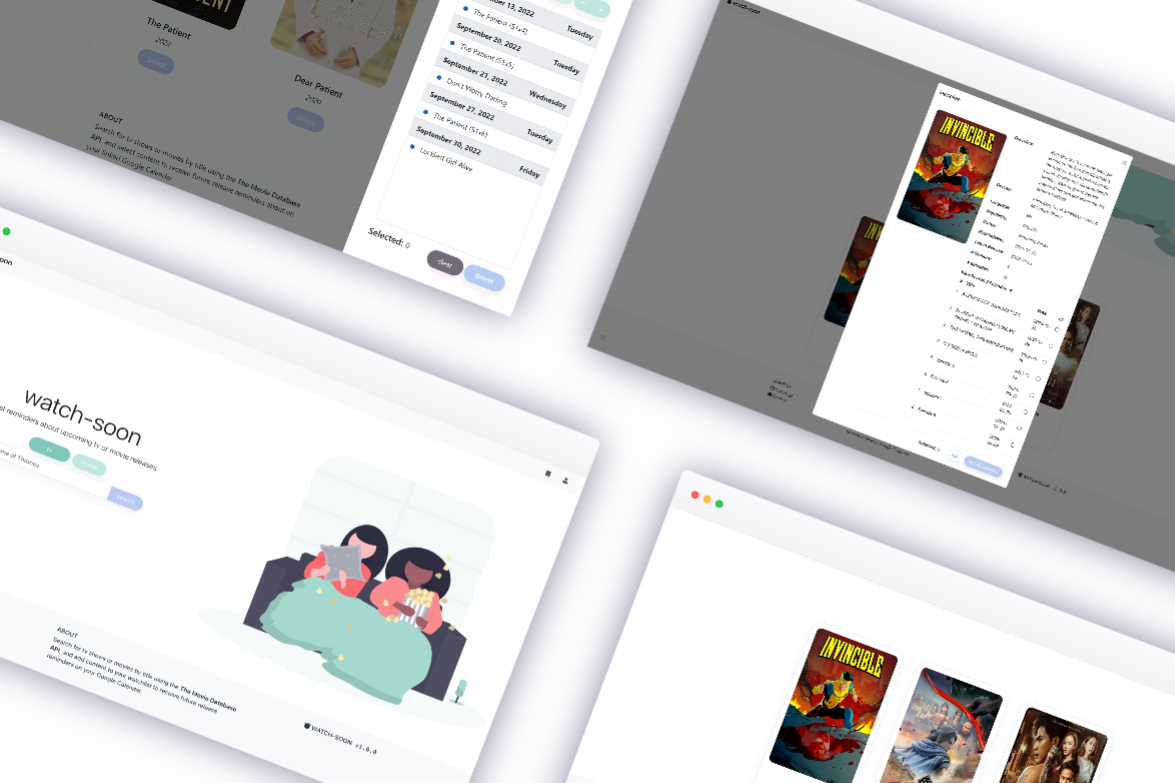
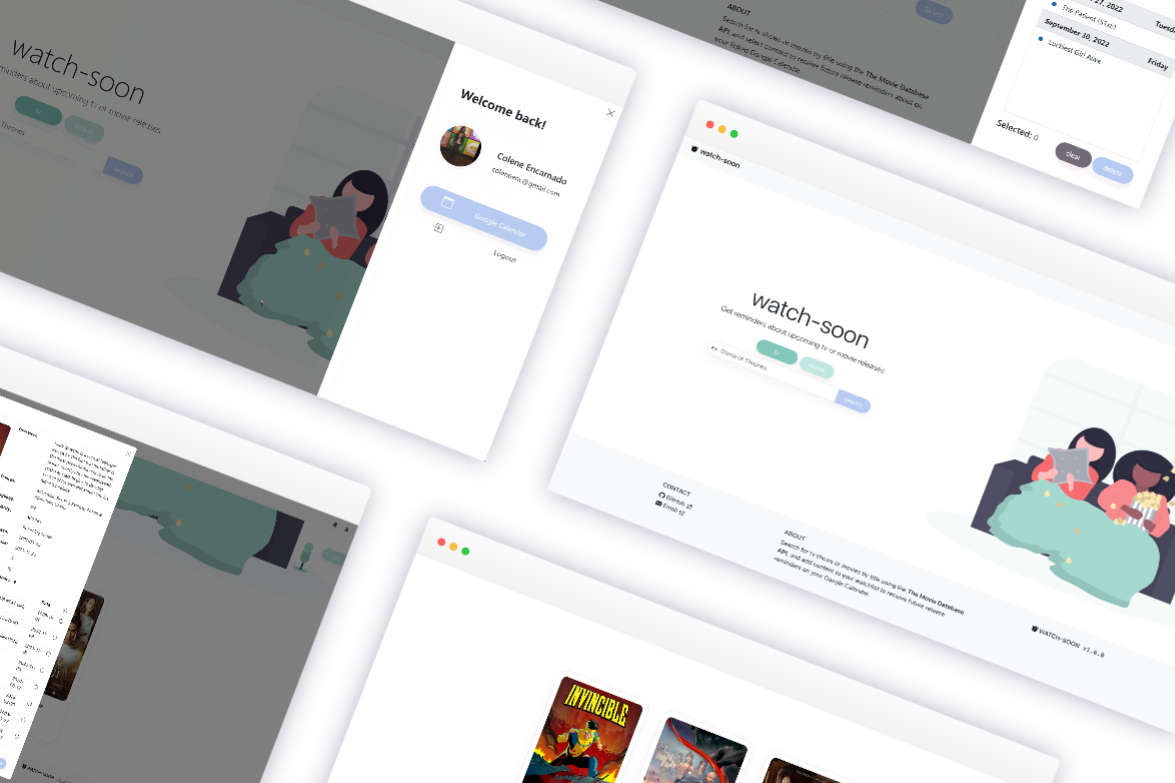
Added three new projects

diff --git a/src/utils/ProjectsData.jsx b/src/utils/ProjectsData.jsx
@@ -5,7 +5,7 @@ export const PROJECTS_DATA = [
     description:
       "A responsive and interactive website to showcase my background, skills, and projects. Used as a learning tool for using animations and a dark/light mode theme.",
     tags: ["React", "Tailwind", "Framer Motion", "Netlify"],
-    image: "/portfolio(1).png",
+    image: "/portfolio.png",
     github: "https://github.com/encarnac/portfolio",
     demo: "https://encarnac.netlify.app/",
   },
@@ -15,7 +15,7 @@ export const PROJECTS_DATA = [
     description:
       "A web application for a 'dating' service to connect potential adopters with pets posted by animal shelters. Users can swipe through listings posted by shelters and 'like' pets to create a collection of potential pets.",
     tags: ["React", "Tailwind", "Flask", "GCP", "Figma"],
-    image: "/adopt-a-pal(1).png",
+    image: "/adopt-a-pal.png",
     github: "https://github.com/encarnac/Adopt-A-Pal",
     demo: "https://www.figma.com/file/yJkg7EMO0fpvOo6WCn6JMO/Desktop-Prototype?type=design&node-id=0%3A1&mode=design&t=TfNgvSewE7efiwJb-1",
   },
@@ -25,8 +25,40 @@ export const PROJECTS_DATA = [
     description:
       "Search for tv shows or movies by title using the The Movie Database API, and add content to your watchlist to receive future release reminders on Google Calendar.",
     tags: ["React", "Bootstrap", "Express", "MongoDB", "GCP", "Railway"],
-    image: "/watch-soon(1).png",
+    image: "/watch-soon.png",
     github: "https://github.com/encarnac/tv-movie-reminder",
     demo: "https://watch-soon.up.railway.app/",
+  },
+  {
+    title: "Papermate",
+    subtitle: "MySQL Database Manager",
+    description:
+      "A web application for administrators to manage a MySQL database for a book subscription service via CRUD operations.",
+    tags: ["React", "Bootstrap", "Express", "MySQL"],
+    image: "/papermate.png",
+    github: "https://github.com/encarnac/tv-movie-reminder",
+    demo: "/",
+  },
+  {
+    title: "Readr",
+    subtitle: "Reading App Design",
+    description:
+      "An interactive prototype for a mobile app used to track reading habits and discover new books.",
+    tags: ["Figma"],
+    image: "/readr.png",
+    github:
+      "https://www.figma.com/file/aGwVuq0U4WMDPgyps76Oai/Readr?type=design&node-id=0-1&mode=design&t=Y7jCxqU69T2SPtHt-0",
+    demo: "https://www.figma.com/proto/aGwVuq0U4WMDPgyps76Oai/Readr?type=design&node-id=0-1&t=FeOLp6hLGMlAlKzU-0&scaling=scale-down&page-id=0%3A1&starting-point-node-id=14%3A645",
+  },
+
+  {
+    title: "Mood Journal",
+    subtitle: "Journal Mobile App",
+    description:
+      "A cross-platform mobile app for journaling and recording your daily mood. Includes a dark mode and landscape view.",
+    tags: ["Flutter", "SQLite"],
+    image: "/journal.png",
+    github: "https://github.com/encarnac/mood-journal",
+    demo: "/",
   },
 ];

diff --git a/src/components/ProjectsSection.jsx b/src/components/ProjectsSection.jsx
@@ -24,6 +24,14 @@ const projectsTabs = {
   },
 };
 
+const projectCard = {
+  hidden: { y: 30, opacity: 0 },
+  visible: {
+    y: 0,
+    opacity: 1,
+  },
+};
+
 const types = ["all", "web", "mobile", "design"];
 
 const ProjectsSection = () => {
@@ -73,7 +81,7 @@ const ProjectsSection = () => {
           whileInView="visible"
           viewport={{ once: true, amount: 0.1 }}
           variants={projectsContainer}
-          className="grid gap-y-8 text-[#7B7484] dark:text-[#c3c3c4] md:grid-cols-12 md:gap-x-2 md:gap-y-0 lg:gap-x-8 xl:gap-x-12"
+          className="grid gap-y-8 text-[#312f34] dark:text-[#c3c3c4] md:grid-cols-12 md:gap-x-2 md:gap-y-8 lg:gap-x-8 xl:gap-x-12"
         >
           {PROJECTS_DATA.map((project, index) => (
             <ProjectCard key={index} project={project} />

diff --git a/src/components/ProjectCard.jsx b/src/components/ProjectCard.jsx
@@ -15,7 +15,7 @@ const ProjectCard = ({ project, index }) => {
       key={index}
       transition={{ type: "tween", duration: 0.6 }}
       variants={projectCard}
-      class="col-span-1 flex flex-col items-center md:col-span-3"
+      class="col-span-1 flex flex-col items-center md:col-span-4"
     >
       {/* PROJECT PHOTO */}
       <div class="group relative overflow-clip rounded-3xl border-[1px] border-[#797382]/40 border-white bg-gradient-to-br from-[#B0BEDF] via-[#D0C5DD] to-[#E1C6D7] bg-clip-content p-2 transition duration-300 ease-in-out hover:border-[1.5px] hover:border-[#de8abb] dark:border-[#807C8E]/70 dark:from-[#3034C2]/30 dark:via-[#6A3DD1]/30 dark:to-[#9329BE]/30 dark:hover:border-[#7943ED] md:h-fit">
